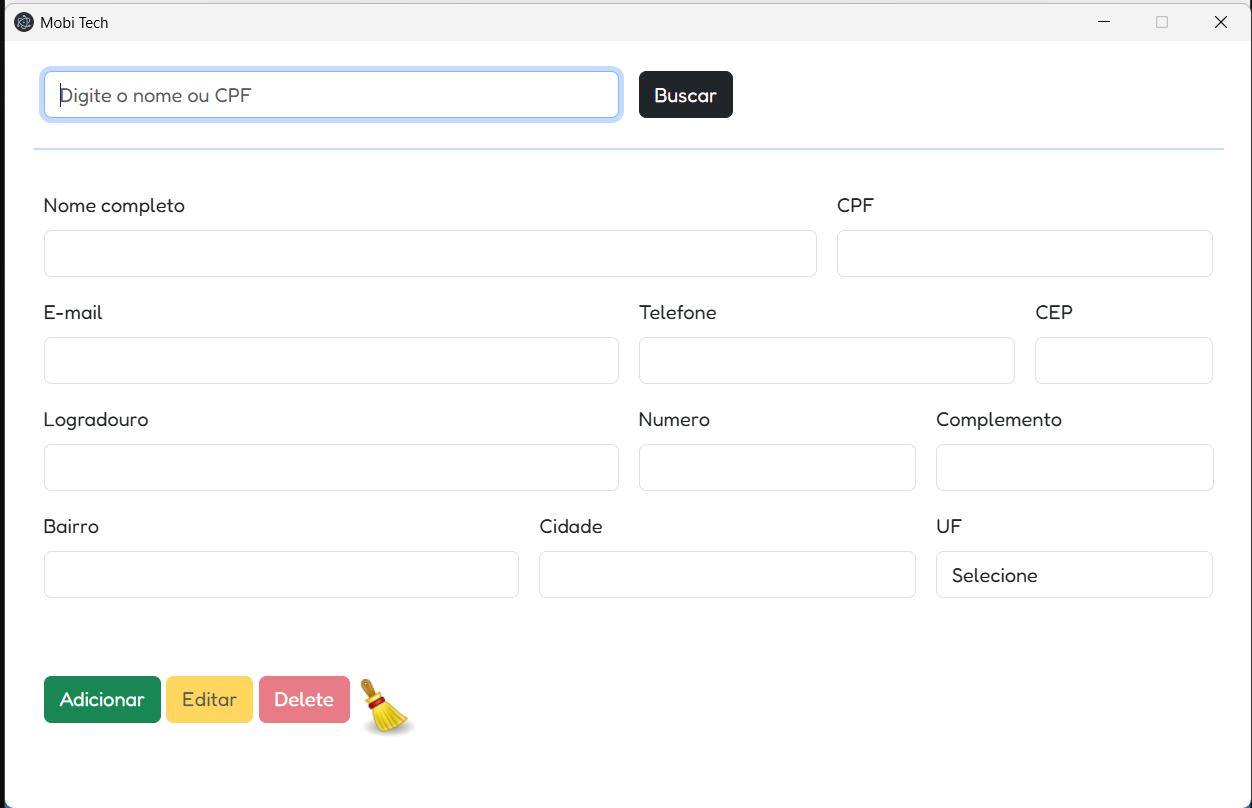
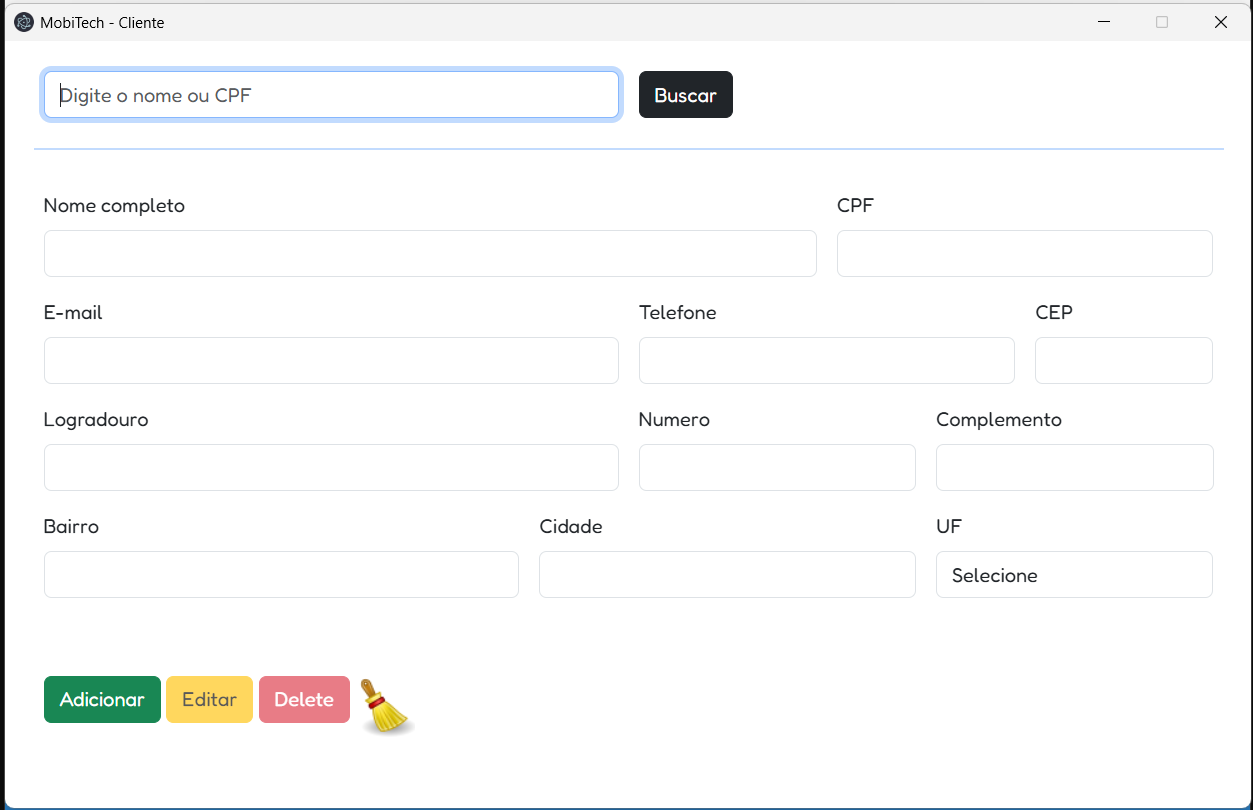
Ajuste do título das telas do sistema e prints para o readme

diff --git a/src/views/OS.html b/src/views/OS.html
@@ -4,7 +4,7 @@
 <head>
     <meta charset="UTF-8">
     <meta name="viewport" content="width=device-width, initial-scale=1.0">
-    <title>Ordem de Serviço</title>
+    <title>MobiTech - Ordem de serviço</title>
     <link rel="stylesheet" href="../public/css/bootstrap.min.css">
     <link rel="stylesheet" href="../public/css/style.css">
     <meta http-equiv="Content-Security-Policy" content="script-src 'self' 'unsafe-inline'">

diff --git a/src/views/cliente.html b/src/views/cliente.html
@@ -5,7 +5,7 @@
     <meta charset="UTF-8">
     <meta name="viewport" content="width=device-width, initial-scale=1.0">
     <meta http-equiv="Content-Security-Policy" content="script-src 'self' 'unsafe-inline'">
-    <title>Mobi Tech</title>
+    <title>MobiTech - Cliente</title>
     <link rel="stylesheet" href="../public/css/bootstrap.min.css">
     <link rel="stylesheet" href="../public/css/style.css">
 </head>

diff --git a/src/views/index.html b/src/views/index.html
@@ -4,7 +4,7 @@
 <head>
     <meta charset="UTF-8">
     <meta name="viewport" content="width=device-width, initial-scale=1.0">
-    <title>Mobi Tech</title>
+    <title>MobiTech</title>
     <link rel="stylesheet" href="../public/css/bootstrap.min.css">
     <link rel="stylesheet" href="../public/css/style.css">
     <meta http-equiv="Content-Security-Policy" content="script-src 'self' 'unsafe-inline' ">
